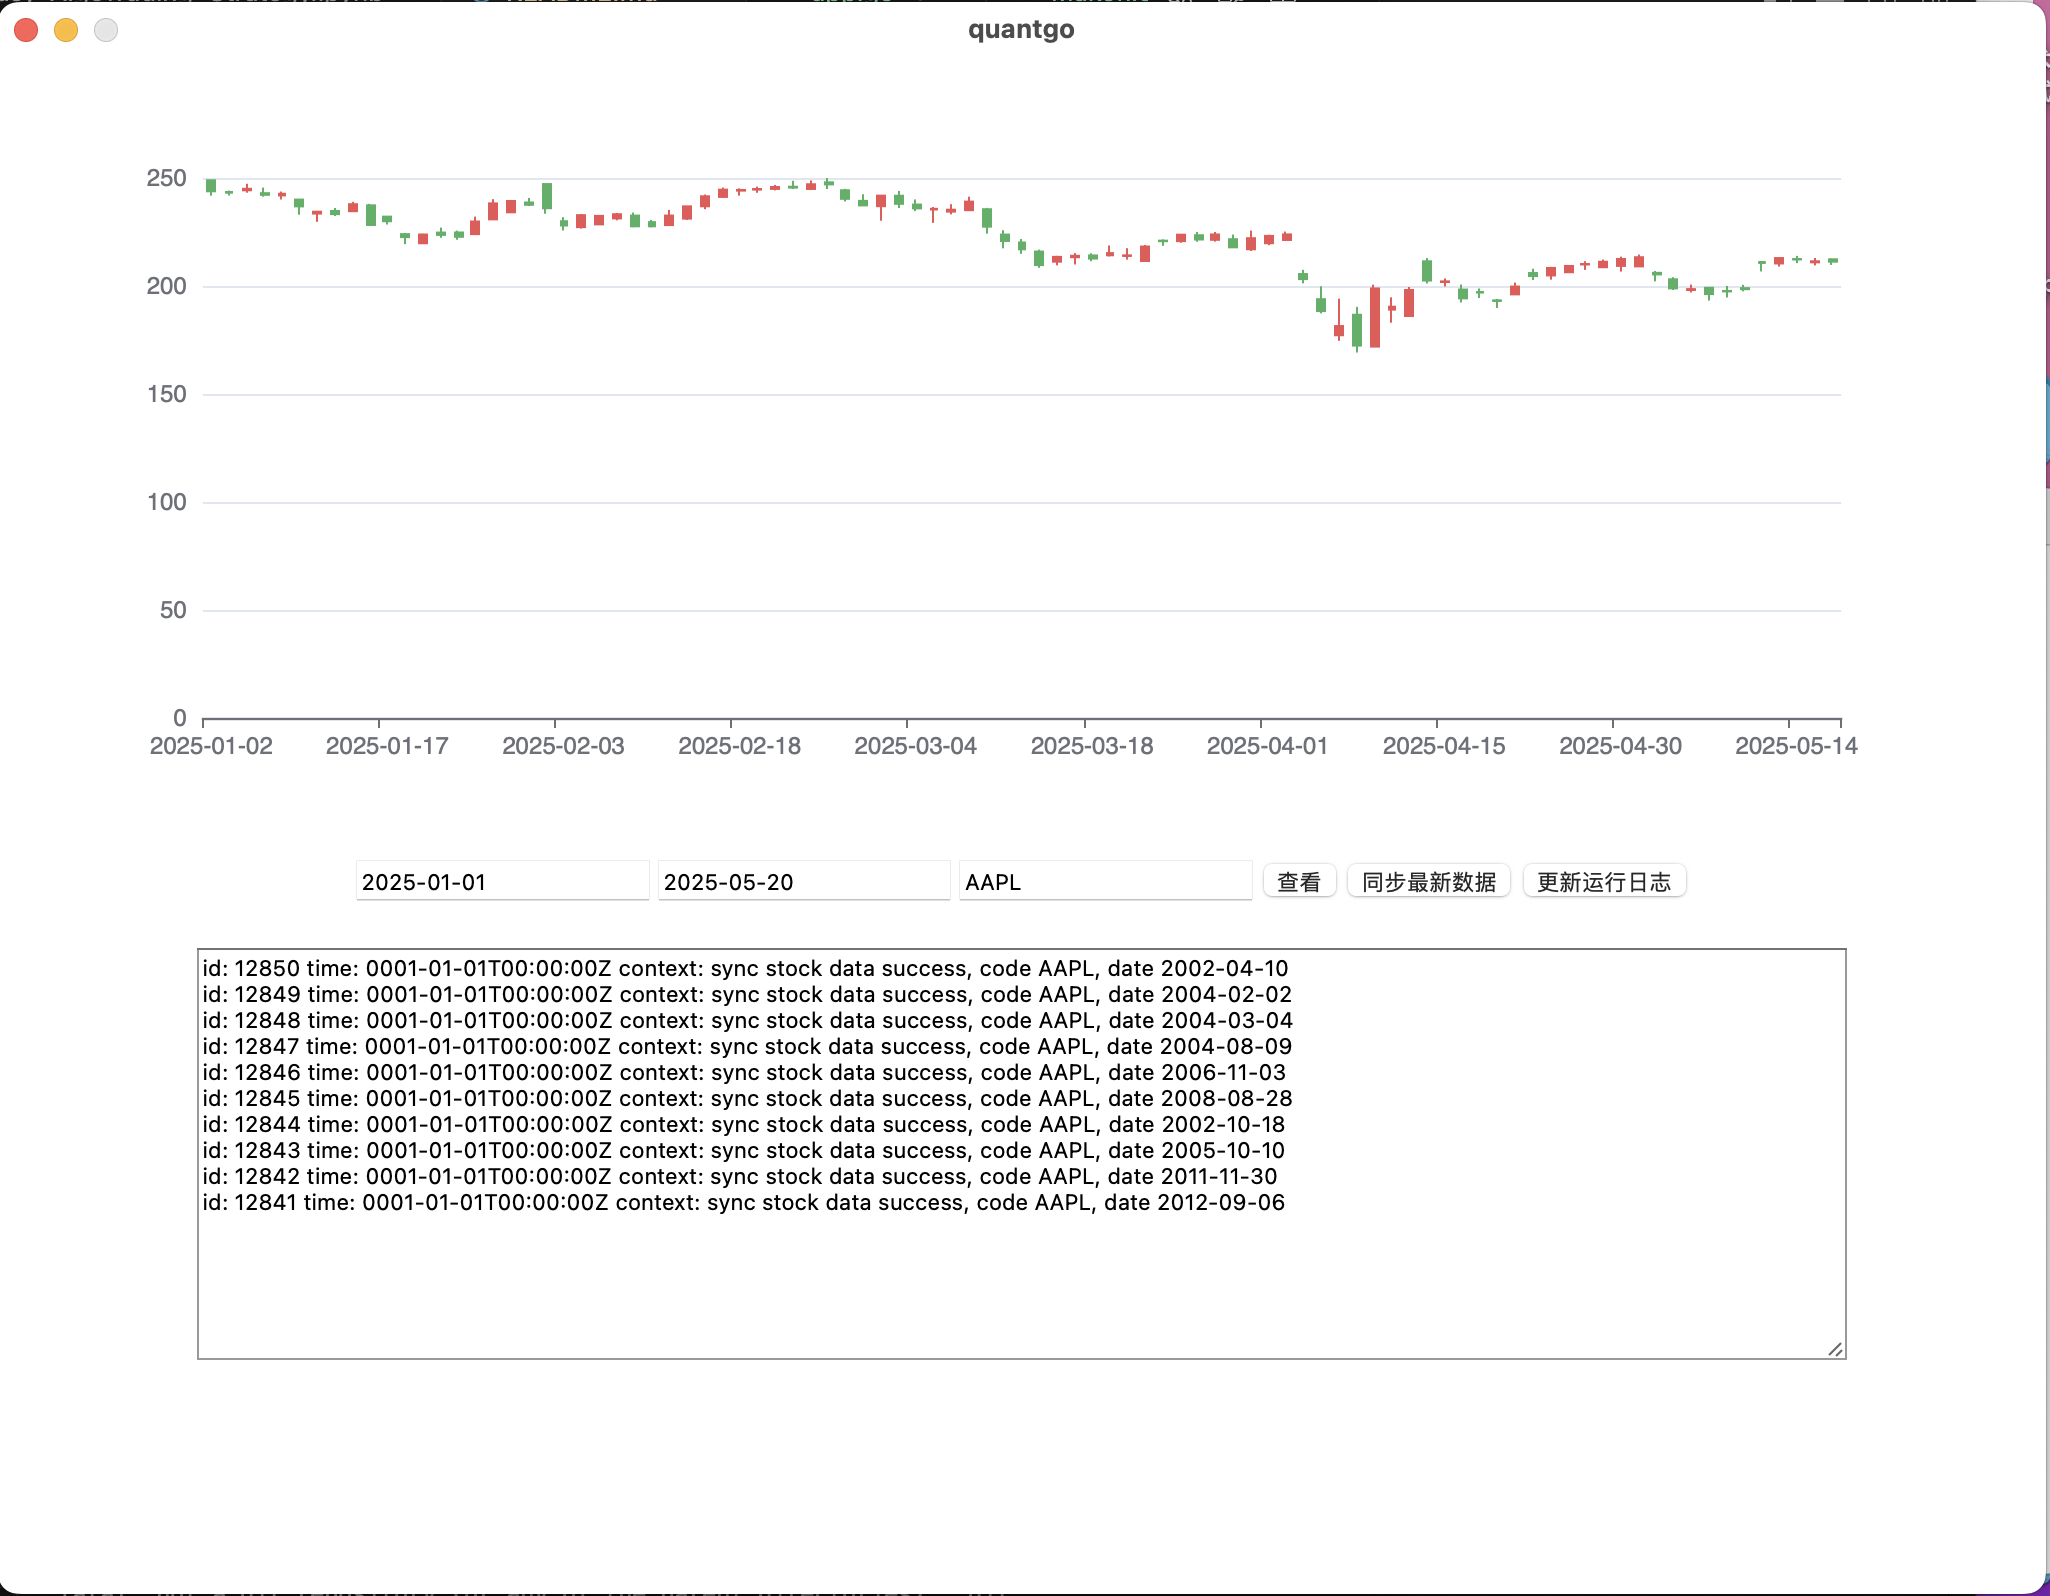
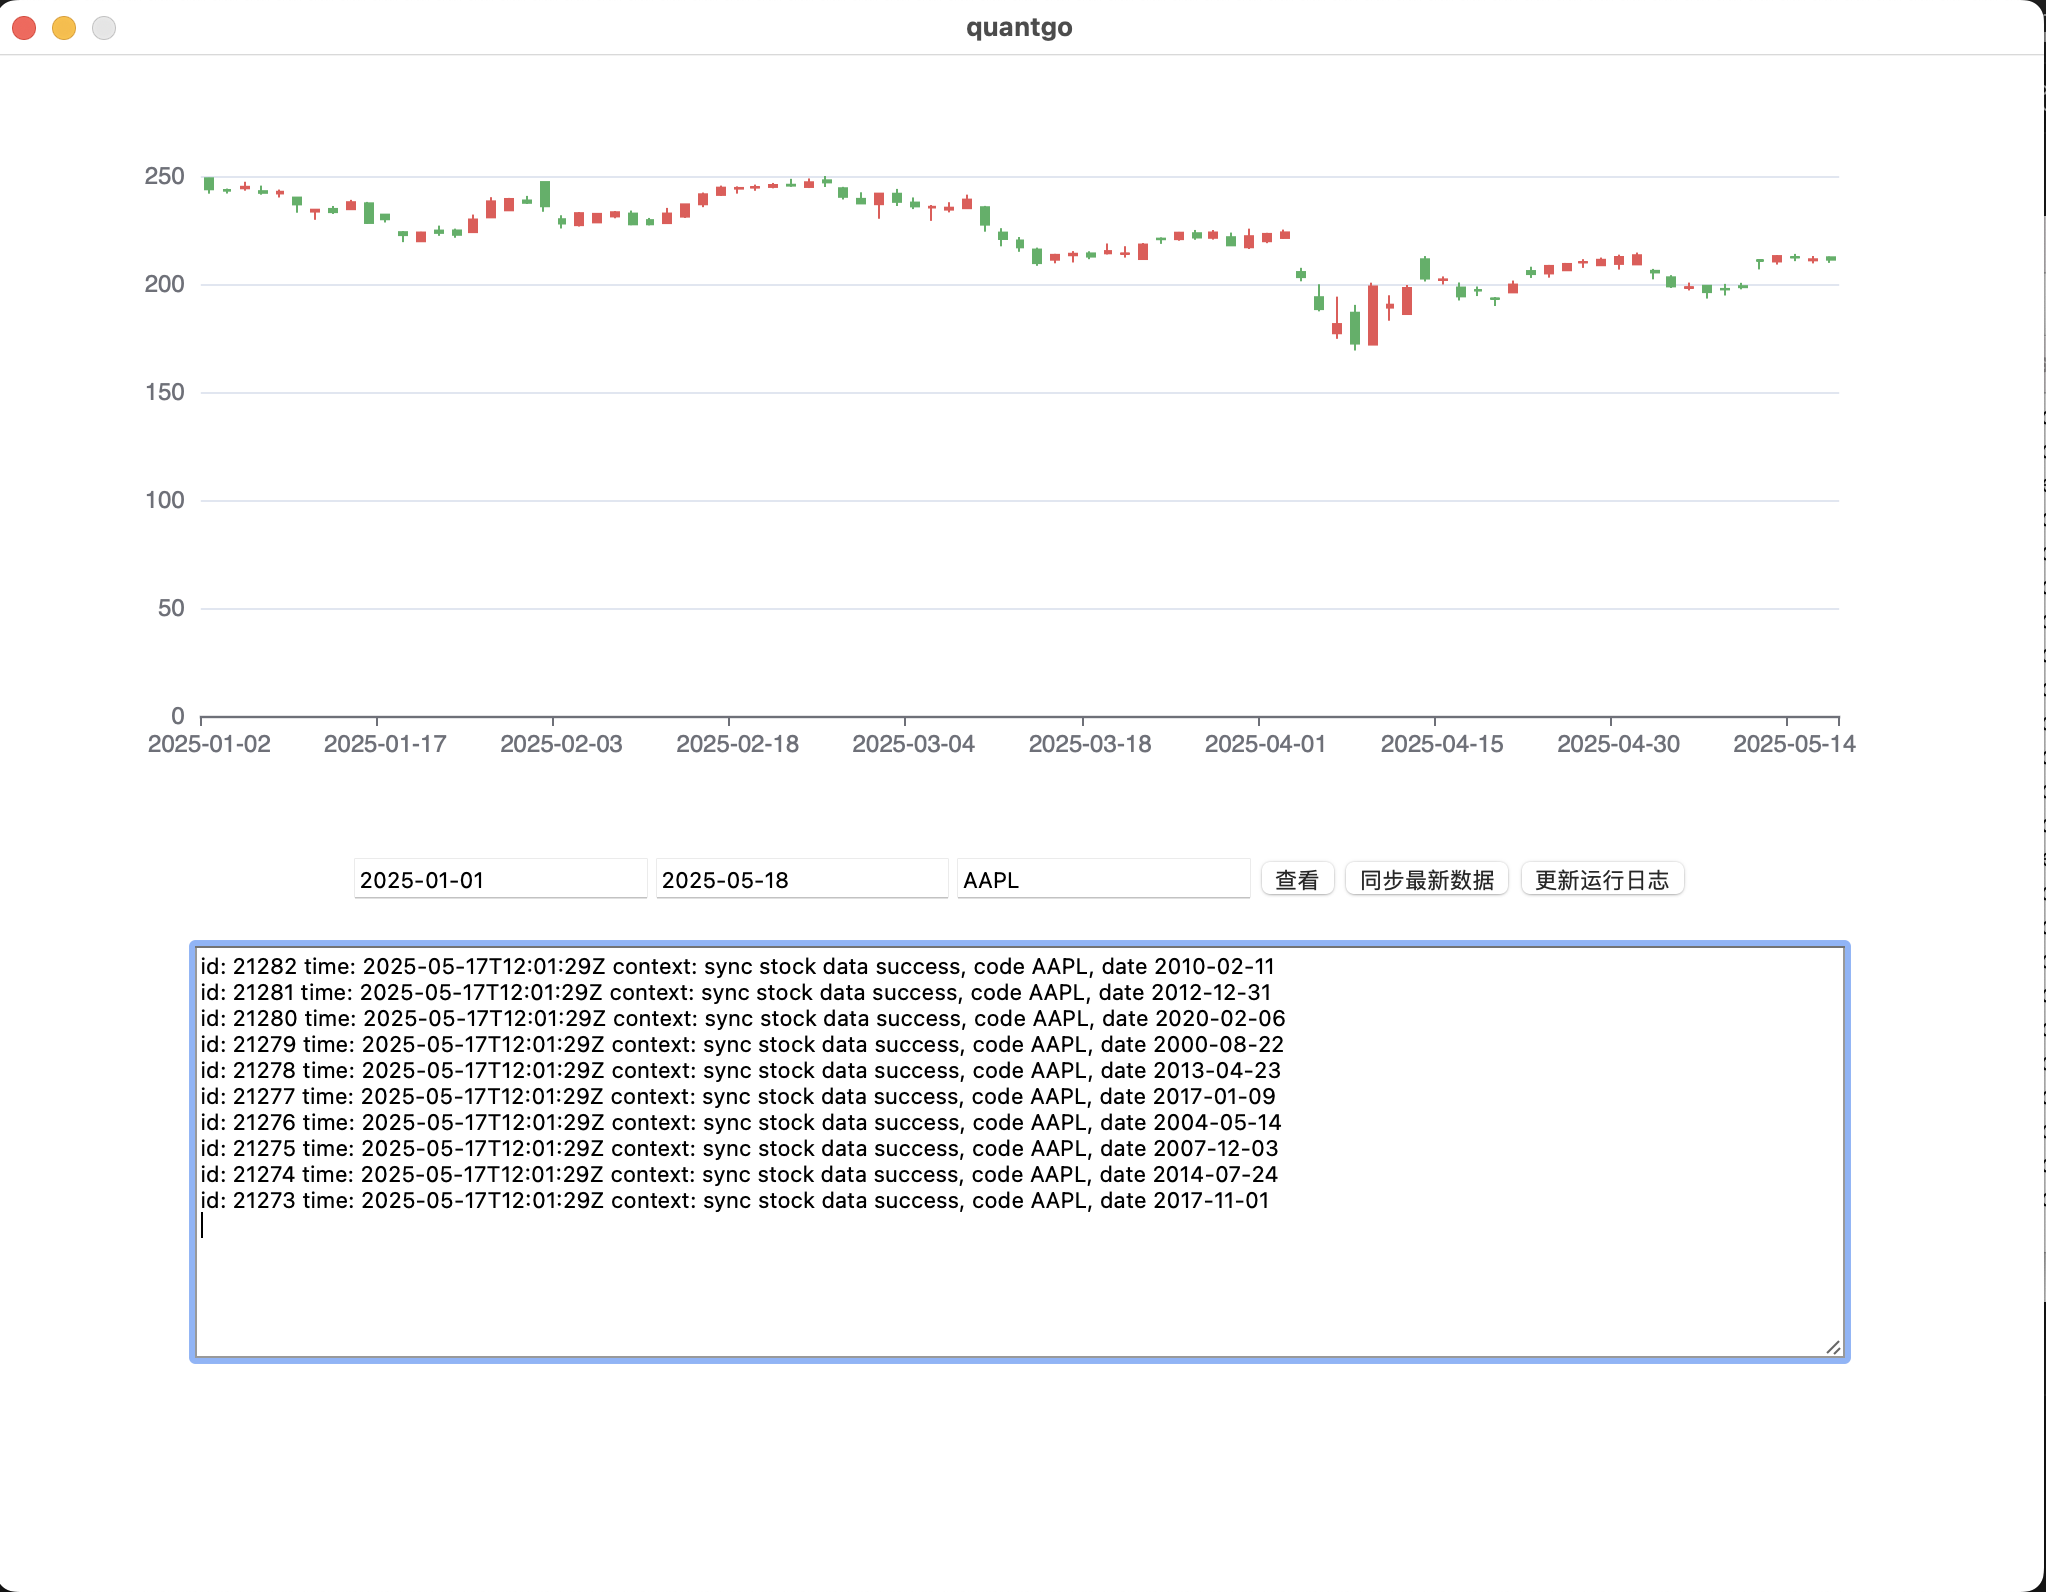
fix console log time

diff --git a/frontend/src/App.vue b/frontend/src/App.vue
@@ -1,5 +1,5 @@
 <script setup>
-import HelloWorld from './components/QuantGoConsole.vue'</script>
+import QuantGoConsole from './components/QuantGoConsole.vue'</script>
 
 <template>
   <QuantGoConsole/>

diff --git a/app.go b/app.go
@@ -107,7 +107,7 @@ func (a *App) SyncStockHisData(stock_code string, token string) {
 		}
 
 		insertSQL = `INSERT INTO console_log (time, context) VALUES (?, ?)`
-		_, err = a.db.Exec(insertSQL, time.Now().GoString(), fmt.Sprintf("sync stock data success, code %s, date %s", stock_code, date))
+		_, err = a.db.Exec(insertSQL, time.Now().Format("2006-01-02 15:04:05"), fmt.Sprintf("sync stock data success, code %s, date %s", stock_code, date))
 		if err != nil {
 			log.Fatalf("Failed to insert data: %v", err)
 		}
